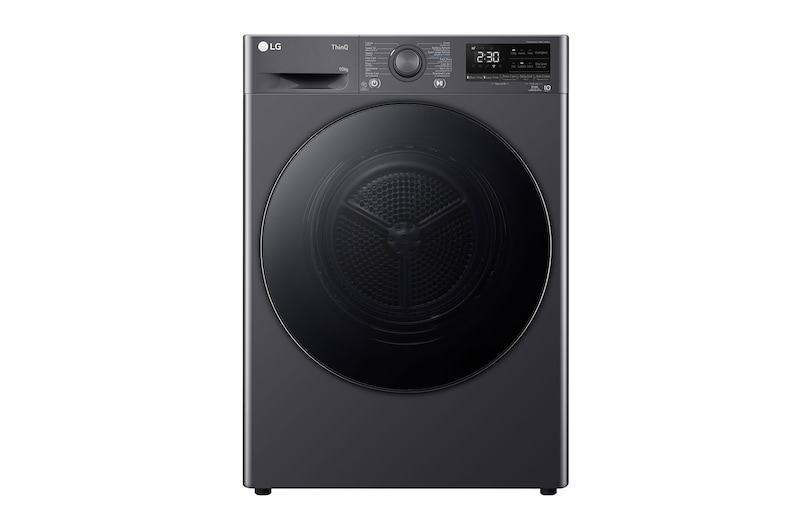
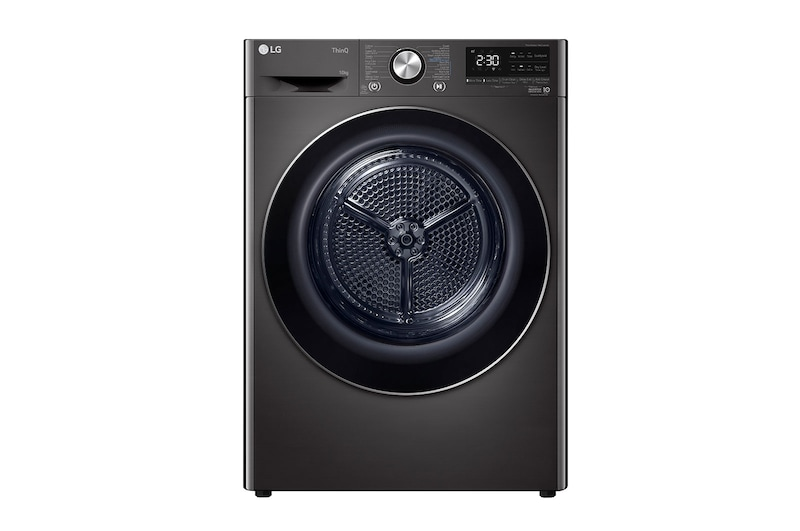
Auto deploy calculator 2026.08.14-v69

diff --git a/index.html b/index.html
@@ -1,5 +1,5 @@
 <!DOCTYPE html>
-<!-- LG Subscribe Calculator build 2026.08.14-v68 · Price list Aug V3 (WP DC11M · RV10VHP2B · SAC 1-way/price · 100MRGB96BS) -->
+<!-- LG Subscribe Calculator build 2026.08.14-v69 · Price list Aug V3 + official cutouts 100MRGB96BS / RV10VHP2B -->
 <html lang="th">
 <head>
 <meta charset="UTF-8" />
@@ -1691,7 +1691,7 @@ function lgCalculator() {
  compareB: { term: '5Y', serviceType: 'Visit', modelIndices: [] },
  cart: [],
  toast: { show: false, msg: '' },
- buildVersion: '2026.08.14-v68',
+ buildVersion: '2026.08.14-v69',
  quoteCustomer: {
    name: '',
    address: '',
@@ -2096,7 +2096,7 @@ function lgCalculator() {
           { term:'6Y', serviceType:'Self', serviceCycle:'ทุก 12 เดือน', regular:599, effectiveMonthly:149, promoMonths:1, postPromoPrice:599, billSchedule:[{'range': 'บิล 1', 'price': 149, 'note': 'ราคาพิเศษ'}, {'range': 'บิล 2-8', 'price': 299, 'note': 'โปรลด 50%'}, {'range': 'บิล 9-72', 'price': 599, 'note': 'ราคาปกติ'}], promo:'บิลแรก 149 ต่อด้วยลด 50% 7 รอบบิล (299) จากนั้น 599/เดือน', totalContractMonths:72, totalSaving:2550 }
         ]},
  // เครื่องอบผ้า 10kg — Price list Aug V3 (13-31 ส.ค. 2569): RV10VHP2B.BBLPETH · บิลแรก 149 + DC50% 7M
- { code:'RV10VHP2B.BBLPETH', name:'เครื่องอบผ้า · 10 กก.', plans:[
+ { code:'RV10VHP2B.BBLPETH', name:'เครื่องอบผ้า Heat Pump · 10 กก. · สีดำ', plans:[
           { term:'5Y', serviceType:'Visit', serviceCycle:'ทุก 12 เดือน', regular:849, effectiveMonthly:149, promoMonths:1, postPromoPrice:849, billSchedule:[{'range': 'บิล 1', 'price': 149, 'note': 'ราคาพิเศษ'}, {'range': 'บิล 2-8', 'price': 424, 'note': 'โปรลด 50%'}, {'range': 'บิล 9-60', 'price': 849, 'note': 'ราคาปกติ'}], promo:'บิลแรก 149 ต่อด้วยลด 50% 7 รอบบิล (424) จากนั้น 849/เดือน', totalContractMonths:60, totalSaving:3675 },
           { term:'5Y', serviceType:'Self', serviceCycle:'ทุก 12 เดือน', regular:749, effectiveMonthly:149, promoMonths:1, postPromoPrice:749, billSchedule:[{'range': 'บิล 1', 'price': 149, 'note': 'ราคาพิเศษ'}, {'range': 'บิล 2-8', 'price': 374, 'note': 'โปรลด 50%'}, {'range': 'บิล 9-60', 'price': 749, 'note': 'ราคาปกติ'}], promo:'บิลแรก 149 ต่อด้วยลด 50% 7 รอบบิล (374) จากนั้น 749/เดือน', totalContractMonths:60, totalSaving:3225 },
           { term:'6Y', serviceType:'Visit', serviceCycle:'ทุก 12 เดือน', regular:749, effectiveMonthly:149, promoMonths:1, postPromoPrice:749, billSchedule:[{'range': 'บิล 1', 'price': 149, 'note': 'ราคาพิเศษ'}, {'range': 'บิล 2-8', 'price': 374, 'note': 'โปรลด 50%'}, {'range': 'บิล 9-72', 'price': 749, 'note': 'ราคาปกติ'}], promo:'บิลแรก 149 ต่อด้วยลด 50% 7 รอบบิล (374) จากนั้น 749/เดือน', totalContractMonths:72, totalSaving:3225 },
@@ -2251,7 +2251,7 @@ function lgCalculator() {
         ]}
  ]},
  'โทรทัศน์ Life Style / OLED / QNED / NANO': { models: [
-  { code:'100MRGB96BS.ATM', name:'LG Micro RGB evo AI 100"', plans:[
+  { code:'100MRGB96BS.ATM', name:'LG Micro RGB evo AI 100" · 4K 2026', plans:[
           { term:'5Y', serviceType:'No Service', serviceCycle:'ไม่มีบริการ', regular:4499, effectiveMonthly:2249.5, promoMonths:8, postPromoPrice:4499, advancePayment:26994, billSchedule:[{'range': 'บิล 1-12', 'price': 2249.5, 'note': 'ครึ่งราคา (จ่ายล่วงหน้าแล้ว)'}, {'range': 'บิล 13-20', 'price': 2249, 'note': 'โปรลด 50%'}, {'range': 'บิล 21-60', 'price': 4499, 'note': 'ราคาปกติ'}], promo:'บิล 1-12: ฿2249.5 → บิล 13-20: ฿2249 → บิล 21-60: ฿4499', totalContractMonths:60, totalSaving:18000 }
         ]},
 { code:'100QNED86BS.ATM', name:'LG QNED 100"', plans:[
